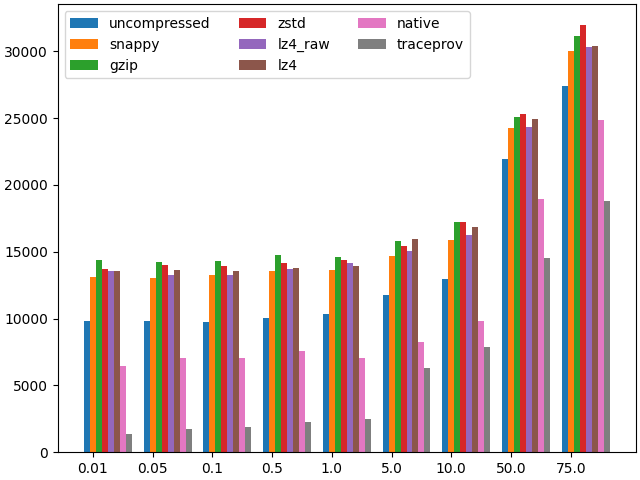
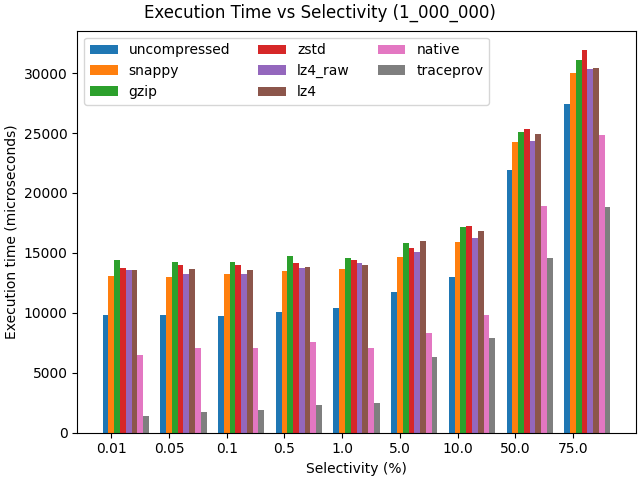
feat(results): add titles

diff --git a/postgres/benchmark/tpch/analyze_duckdb.py b/postgres/benchmark/tpch/analyze_duckdb.py
@@ -47,8 +47,8 @@ def merge_items_strict(left: dict, right: dict) -> dict:
 def extract_path(path: str):
     path_split = path.split("/")
     print(path_split)
-    assert len(path_split) == 5
-    path_name = path_split[3]
+    assert len(path_split) == 4
+    path_name = path_split[2]
     assert "local_test_duckdb_analyze_" in path_name
     path_name = path_name.replace("local_test_duckdb_analyze_", "")
     for compression in COMPRESSIONS:
@@ -179,7 +179,7 @@ import numpy as np
 width = 0.1
 
 
-def tp_plot(scale: str, scale_results: dict):
+def tp_plot(scale: str, scale_results: dict, out_dir: str):
     selectivity_set = set()
     fig, ax = plt.subplots(layout="constrained")
     for idx, category in enumerate(
@@ -204,12 +204,19 @@ def tp_plot(scale: str, scale_results: dict):
         )
     ax.legend(ncols=3)
     ax.set_xticks(x_axis + width, x_axis_values)
-    fig.savefig(f"param_{scale}.png")
+    ax.set(xlabel="Query", ylabel="Execution time (microseconds)")
+    fig.savefig(f"{out_dir}/param_{scale}.png")
+
+
+import os
 
 
 def main():
     bench_plotter = BenchmarkPlot("duckdb_inference")
+    bench_plotter.parser.add_argument("-o", "--out_dir", required=True)
     parsed = bench_plotter.parser.parse_args()
+    assert os.system(f"rm -rf {parsed.out_dir}/") == 0
+    assert os.system(f"mkdir -p {parsed.out_dir}") == 0
     combined = []
     for file in parsed.files:
         print(file)
@@ -241,7 +248,7 @@ def main():
         f.write(json.dumps(timings, indent=4))
 
     for scale, scale_results in timings.items():
-        tp_plot(scale, scale_results)
+        tp_plot(scale, scale_results, parsed.out_dir)
 
 
 if __name__ == "__main__":

diff --git a/postgres/benchmark/micro/selectivity/analyze_duckdb.py b/postgres/benchmark/micro/selectivity/analyze_duckdb.py
@@ -46,8 +46,9 @@ def merge_items_strict(left: dict, right: dict) -> dict:
 
 def extract_path(path: str):
     path_split = path.split("/")
-    assert len(path_split) == 4
-    path_name = path_split[2]
+    print(path_split)
+    assert len(path_split) == 3
+    path_name = path_split[1]
     assert "local_test_duckdb_analyze_" in path_name
     path_name = path_name.replace("local_test_duckdb_analyze_", "")
     for compression in COMPRESSIONS:
@@ -169,6 +170,7 @@ width = 0.1
 def tp_plot(scale: str, scale_results: dict):
     selectivity_set = set()
     fig, ax = plt.subplots(layout="constrained")
+    fig.suptitle(f"Execution Time vs Selectivity ({scale})")
     for idx, category in enumerate(
         sorted(list(scale_results.keys()), key=lambda x: SCHEME_ORDER.index(x))
     ):
@@ -191,6 +193,7 @@ def tp_plot(scale: str, scale_results: dict):
         )
     ax.legend(ncols=3)
     ax.set_xticks(x_axis + width, x_axis_values)
+    ax.set(xlabel="Selectivity (%)", ylabel="Execution time (microseconds)")
     fig.savefig(f"scale_{scale}.png")
 
 
@@ -202,6 +205,7 @@ def main():
         print(file)
         complete_path = f"{parsed.root}/{file}/main_result.json"
         paths = glob.glob(complete_path)
+        print(paths)
         for path in paths:
             category = extract_path(path)
             print(path, category)
